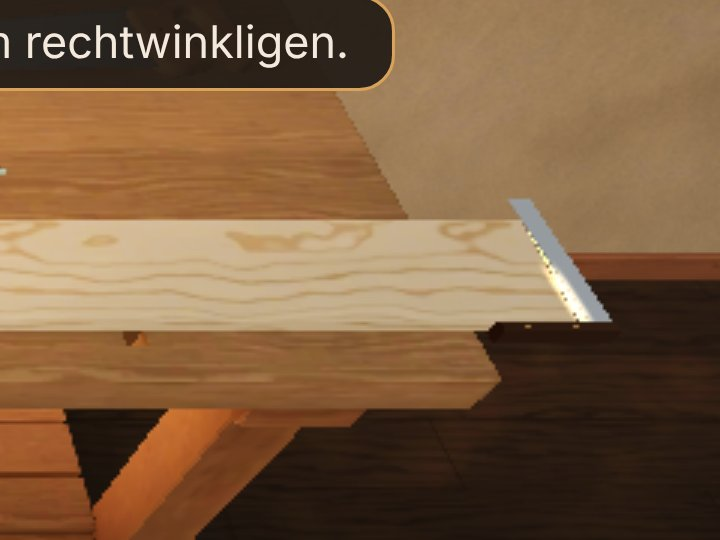
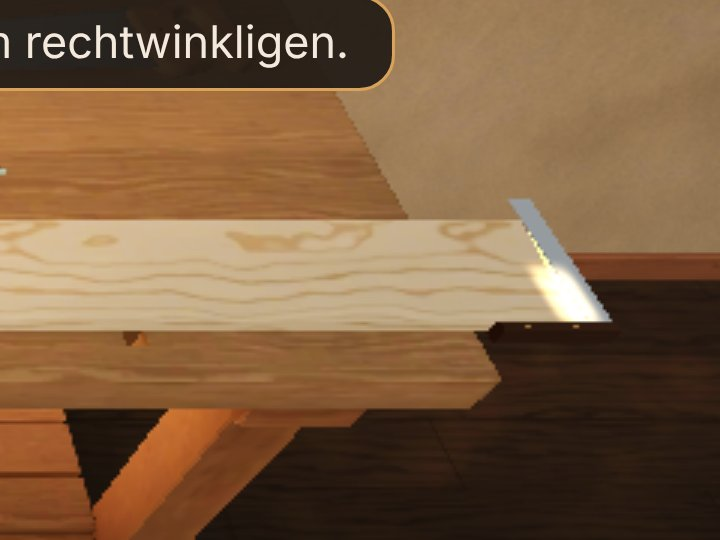
Ticket 017 Nacharbeit: Test „zu neuer Spielstand“ manipuliert den Stand ausserhalb der Spielseite (Speichern beim Verlassen greift jetzt), Screenshots 667 pt
Claude-Session: https://claude.ai/code/session_01DWqJp3t8YZ7HyvobjEpz6H

Changed region(s): [[0.7333, 0.4444, 0.8556, 0.5926]]

diff --git a/tests/e2e/vertical-slice.spec.ts b/tests/e2e/vertical-slice.spec.ts
@@ -754,7 +754,9 @@ test.describe('Vertical Slice 0.1 (/spiel/)', () => {
       return;
     }
     await gespeichert(page);
+    // Spielseite verlassen (sie speichert beim Verlassen – Ticket 017), dann auf der Startseite den
     // gespeicherten Stand als „aus einer neueren Version“ markieren (Kern-Schema 999)
+    await page.goto('./');
     await page.evaluate(
       () =>
         new Promise<void>((ok) => {
@@ -775,7 +777,7 @@ test.describe('Vertical Slice 0.1 (/spiel/)', () => {
           };
         }),
     );
-    await page.reload();
+    await page.goto(SPIEL);
     expect(await bereit(page)).toBe(true);
     const banner = page.locator('.spiel-speicherhinweis');
     await expect(banner).toContainText('neueren Version');
